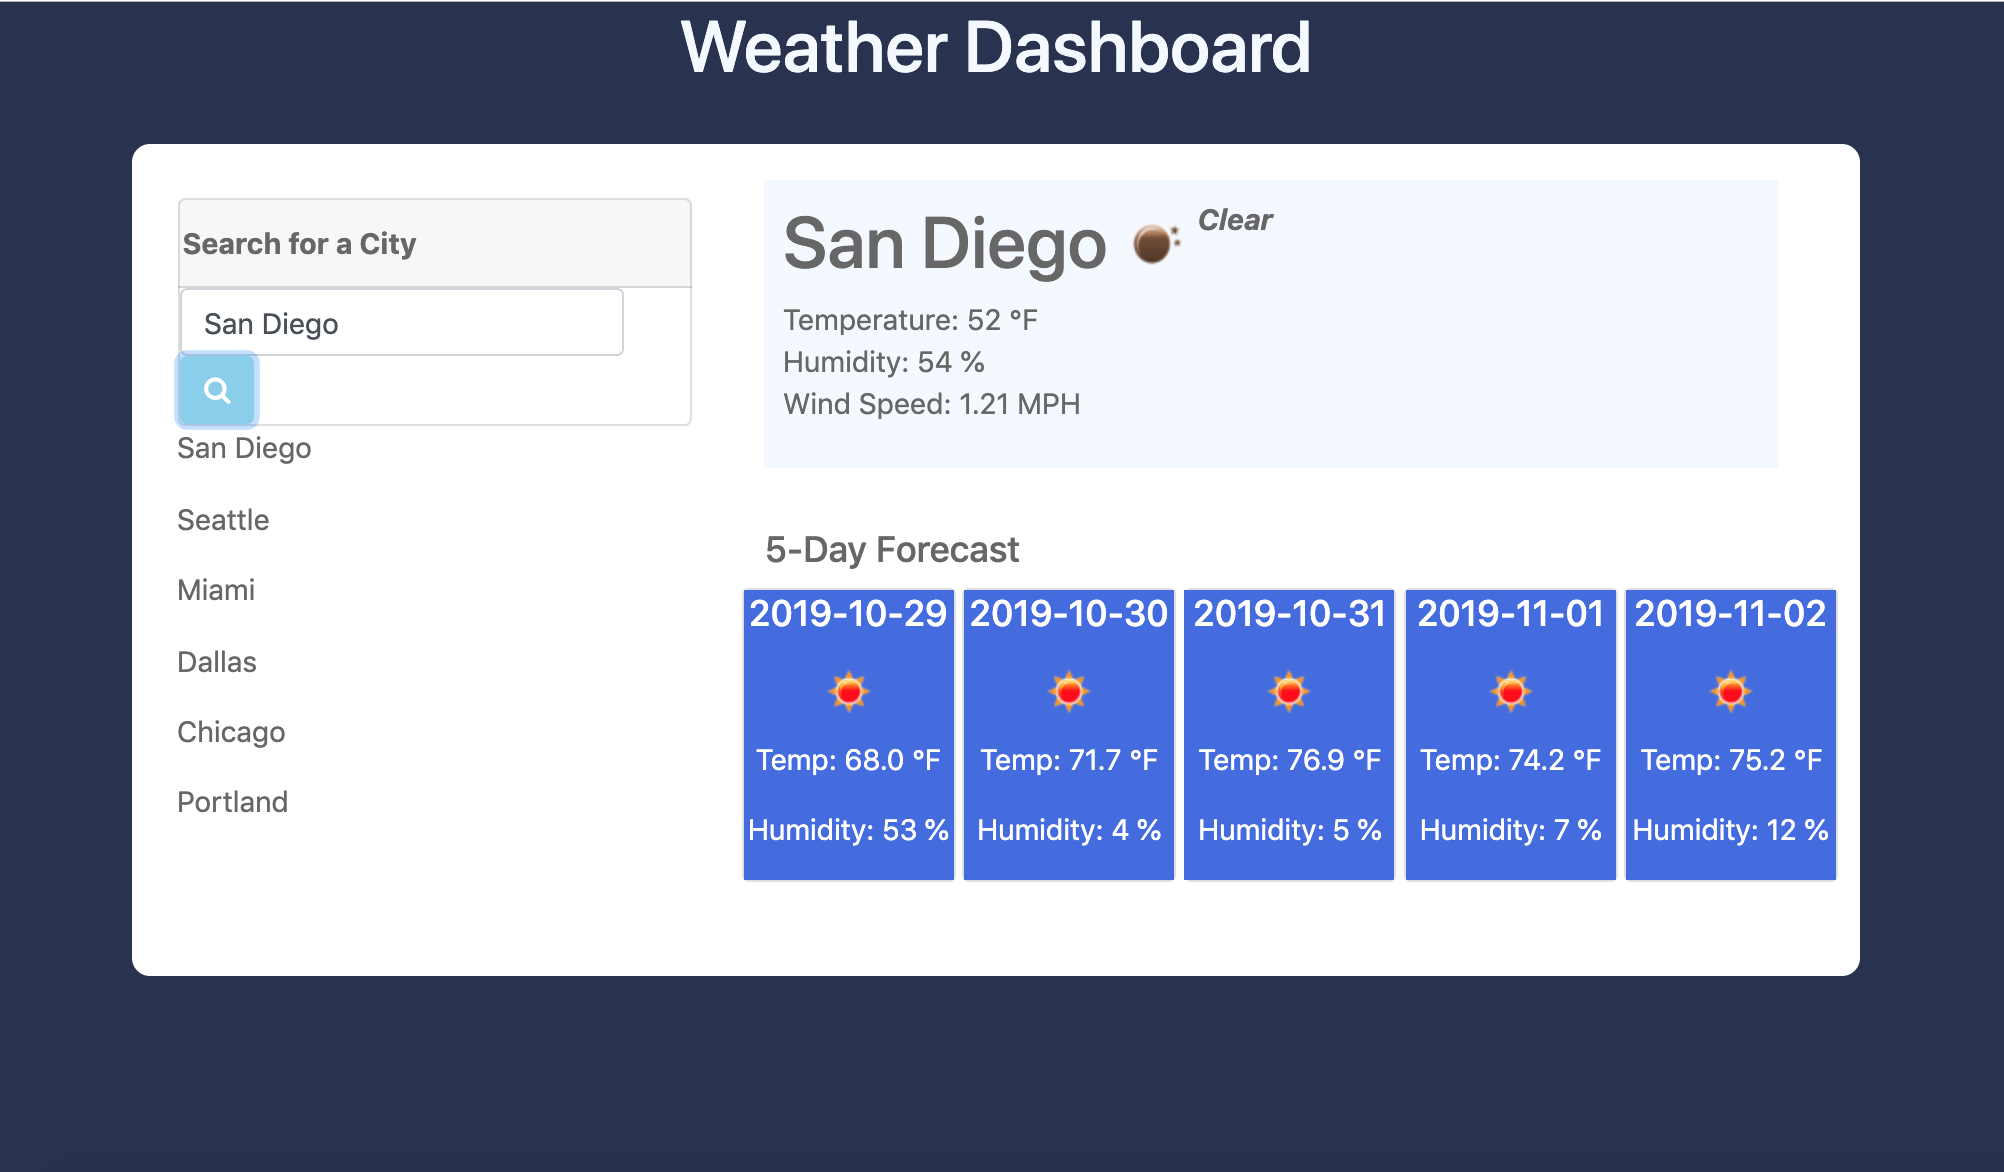
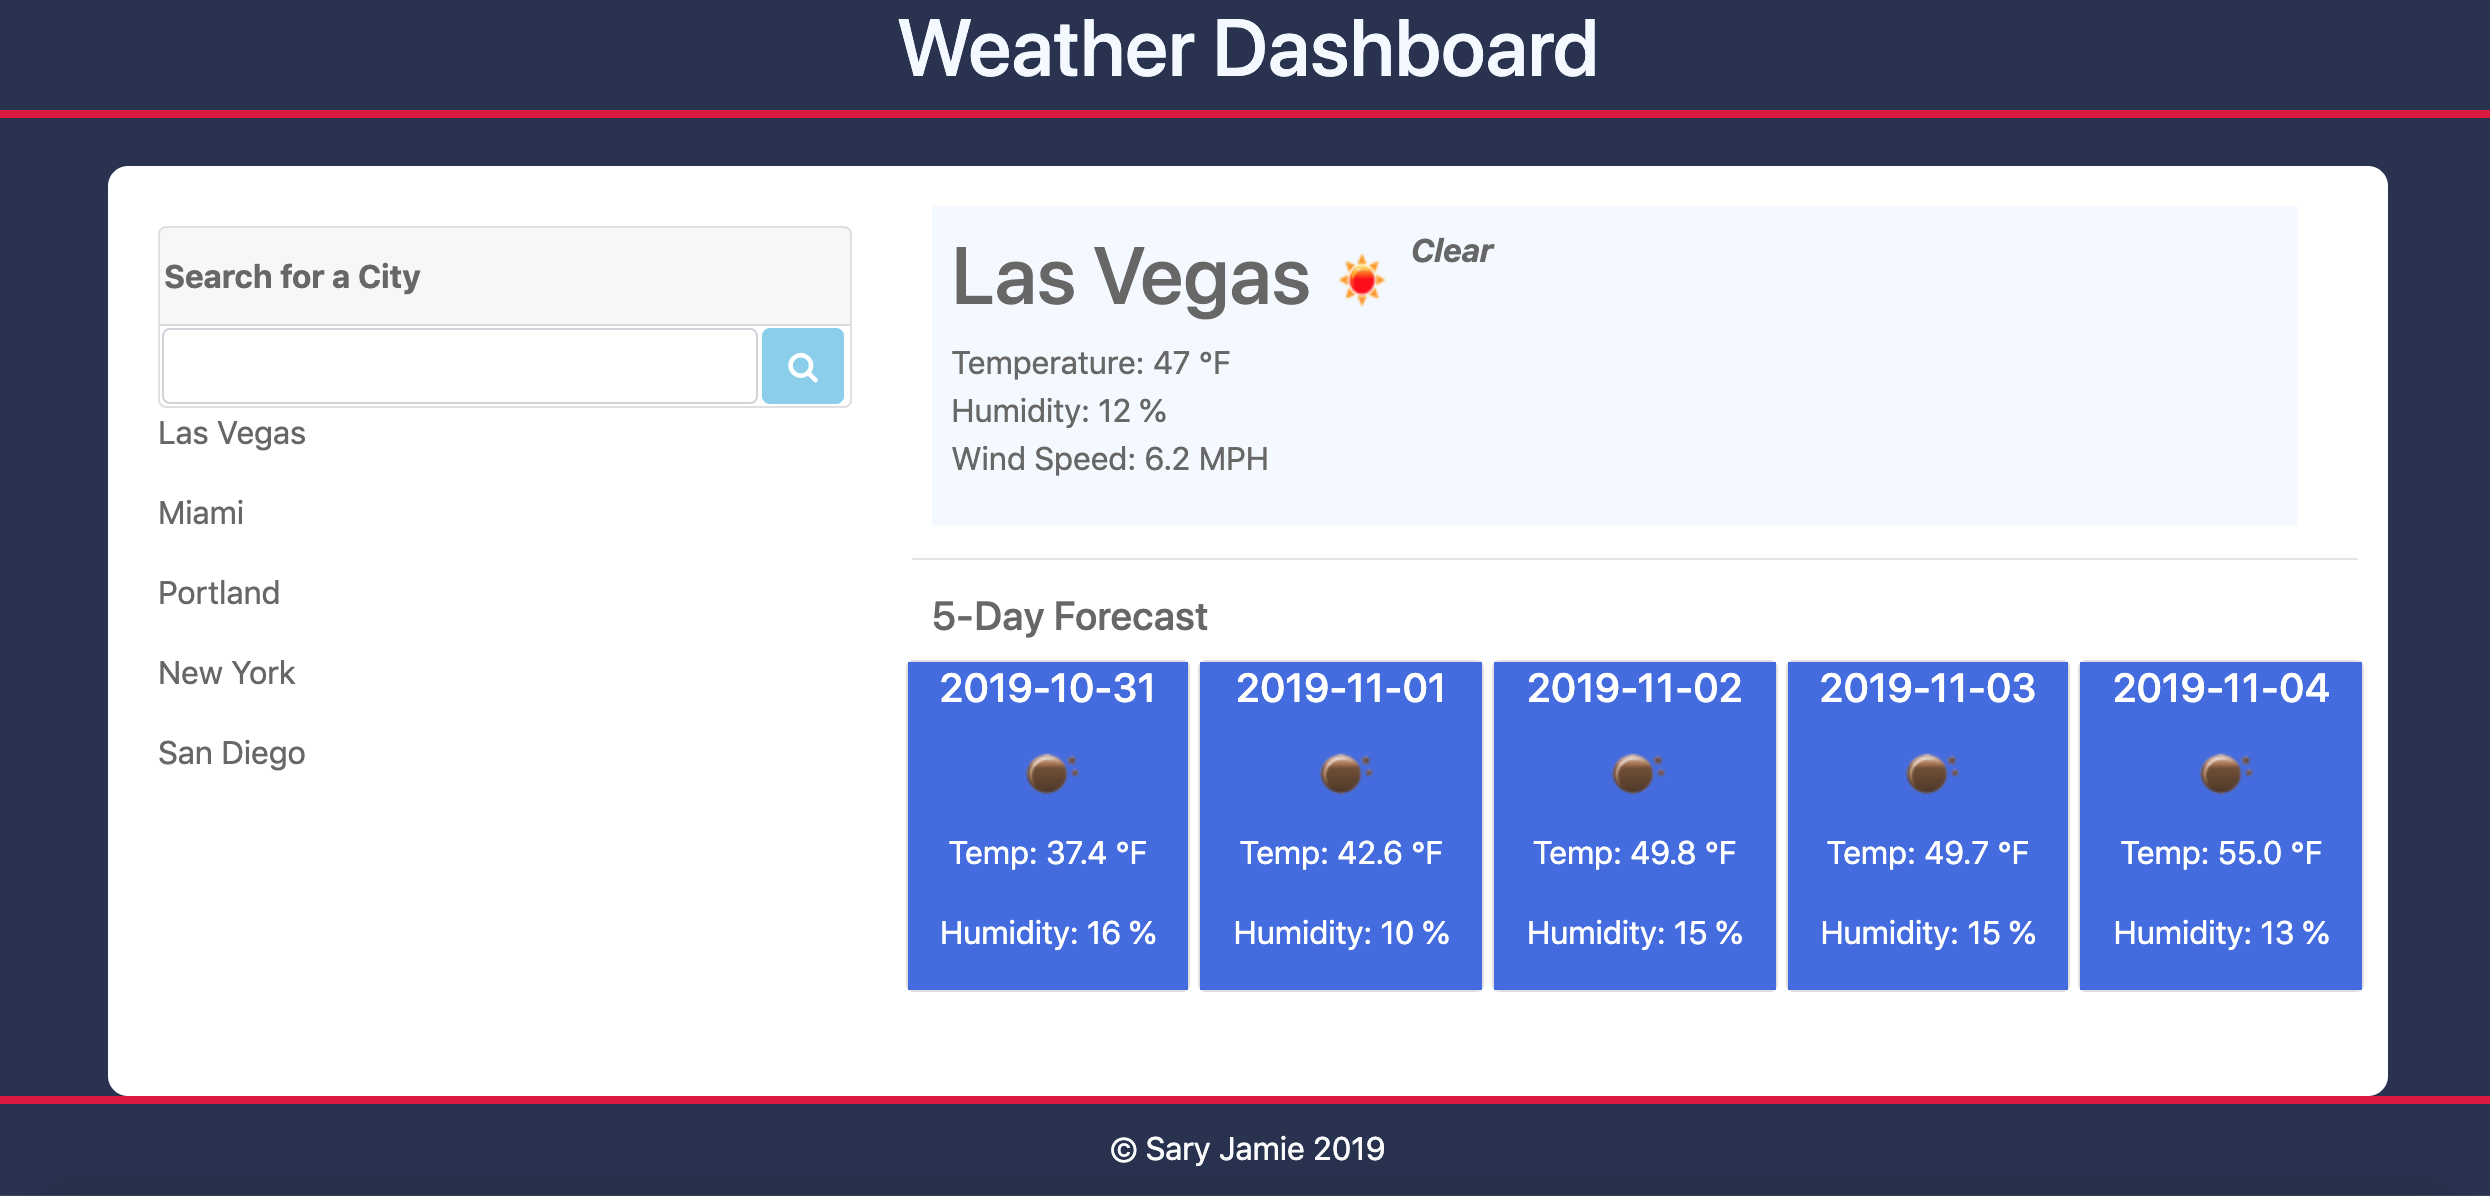
Home page loads temperature for current location

diff --git a/script.js b/script.js
@@ -1,37 +1,46 @@
 var apiKey = "03e24d7d731fc83efc64f5aa4eb937c1";
-var queryURL = "https://api.openweathermap.org/data/2.5/weather?lat=latitude&lon=longitude&q=San+Diego&appid=" +  apiKey;
 
-$.ajax({
+function currentWeather(){
+  navigator.geolocation.getCurrentPosition(function (position){
+    longitude = position.coords.longitude;
+    latitude = position.coords.latitude;
+
+    var queryURL = "https://api.openweathermap.org/data/2.5/weather?lat=" + latitude + "&lon=" + longitude + "&appid=" +  apiKey;
+
+    $.ajax({
   url: queryURL,
   method: "GET"
 })
   // We store all of the retrieved data inside of an object called "response"
   .then(function(response) {
     var iconCode = response.weather[0].icon;
-    var statusCode = response.weather[0].main;
+    
     var iconurl = "http://openweathermap.org/img/w/" + iconCode + ".png";
-    $(".city").html("<h1> San Diego </h1>");
-    $(".status").text(statusCode);
+    $(".city").html("<h1> " + response.name + " </h1>");
     $(".temp").text("Temperature: " + ((response.main.temp - 273.15) * 1.8 + 32).toFixed(0) + " °F");
     $(".humidity").text("Humidity: " + response.main.humidity + " %");
     $(".wind").text("Wind Speed: " + response.wind.speed + " MPH");
     $("#wicon").attr("src", iconurl);
   });
 
+  });
+};
+
+currentWeather();
+
+////////////////////////
+
+function fiveDayForecast(){
+
+
+
 var fiveDayURL = "https://api.openweathermap.org/data/2.5/forecast?q=San+Diego&appid=" + apiKey;
 
-var currentDay = moment().format("dddd MMMM Do");
 
 $.ajax({
   url: fiveDayURL,
   method: "GET"
 }).then(function(responseTwo) {
-  // Log the queryURL
-  console.log(fiveDayURL);
-  // Log the resulting object
-  console.log(responseTwo);
-  console.log(responseTwo.list[4].dt_txt);
-  console.log(responseTwo.list[4].main.temp);
 
   var icon1 = responseTwo.list[4].weather[0].icon;
   var icon1url = "http://openweathermap.org/img/w/" + icon1 + ".png";
@@ -91,7 +100,9 @@ $.ajax({
   $("#day-5").append("<p>" + "Temp: " + tempFive + " °F </p>");
   $("#day-5").append("<p>" + "Humidity: " + responseTwo.list[36].main.humidity + " % </p>");
 });
+}
 
+fiveDayForecast();
 ////////////////////////////
 
 $("button").on("click", function(event) {
@@ -101,9 +112,14 @@ $("button").on("click", function(event) {
   var apiKey = "03e24d7d731fc83efc64f5aa4eb937c1";
   var getWeather = $("#get-weather");
   var city = getWeather.val().trim();
+  cities.push(city)
   var message = document.querySelector(".invalid-message");
-
+   
   console.log(getWeather);
+
+  function storeCities(){
+    localStorage.setItem("cities", JSON.stringify(cities));
+  }
 
   if (city === null || city === "" ){
     message.innerHTML = "Invalid input. Please try again!";
@@ -119,14 +135,9 @@ $("button").on("click", function(event) {
 
   }
   
-  function storeCities(){
-    localStorage.setItem("cities", city);
-  }
+  
 
-  function getCities(){
-    var getCity = localStorage.getItem("cities");
-    console.log(getCity);
-  }
+  
 
   var queryURL =
     "https://api.openweathermap.org/data/2.5/weather?lat=latitude&lon=longitude&q=" +
@@ -236,5 +247,12 @@ $("button").on("click", function(event) {
     $("#day-5").append("<p>" + "Temp: " + tempFive + " °F </p>");
     $("#day-5").append("<p>" + "Humidity: " + responseTwo.list[36].main.humidity + " % </p>");
   });
-
+  
 });
+
+var cities = [];
+
+function getCities(){
+  var getCity = localStorage.getItem("cities");
+  console.log(getCity);
+}

diff --git a/style.css b/style.css
@@ -1,6 +1,11 @@
 body {
   background-color: #293251;
 }
+
+header{
+  border-bottom: 4px solid crimson;
+}
+
 .text-center {
   color: #f4f9ff;
 }
@@ -110,12 +115,8 @@ span {
   padding-right: 25px;
 }
 
-.temperature-value p:hover {
-}
-
 .card-body{
   padding: 1px;
-
 }
 
 #search-card {
@@ -127,9 +128,6 @@ span {
   font-size: 0.5em;
 }
 
-.temperature-description {
-}
-
 .temperature-description p {
   padding: 8px;
   margin: 0;
@@ -138,13 +136,23 @@ span {
   font-size: 1.2em;
 }
 
-.location {
-}
-
 .location p {
   margin: 0;
   padding: 0;
   color: #293251;
   text-align: center;
   font-size: 0.8em;
+}
+
+footer{
+  position: fixed;
+  left: 0;
+  bottom: 0;
+  width: 100%;
+  color:white;
+  background-color: #293251;
+  padding: 10px;
+  border-top: 4px solid crimson;
+  text-align: center;
+  height: 50px;
 }

diff --git a/index.html b/index.html
@@ -15,11 +15,11 @@
 
 <body>
     <!-- Retrieved data will be dumped here -->
-    <nav>
+    <header>
         <strong>
             <h1 class="text-center">Weather Dashboard</h1>
         </strong>
-    </nav>
+    </header>
     <br>
     <div class="container" style="color: rgb(104, 103, 103);">
         <!-- Row for Searching Weather Dashboard -->
@@ -99,6 +99,7 @@
             </div>
         </div>
     </div>
+    <footer>&copy; Sary Jamie 2019</footer>
     <script src="https://cdnjs.cloudflare.com/ajax/libs/jquery/3.2.1/jquery.min.js"></script>
     <script src="script.js"></script>
 </body>
